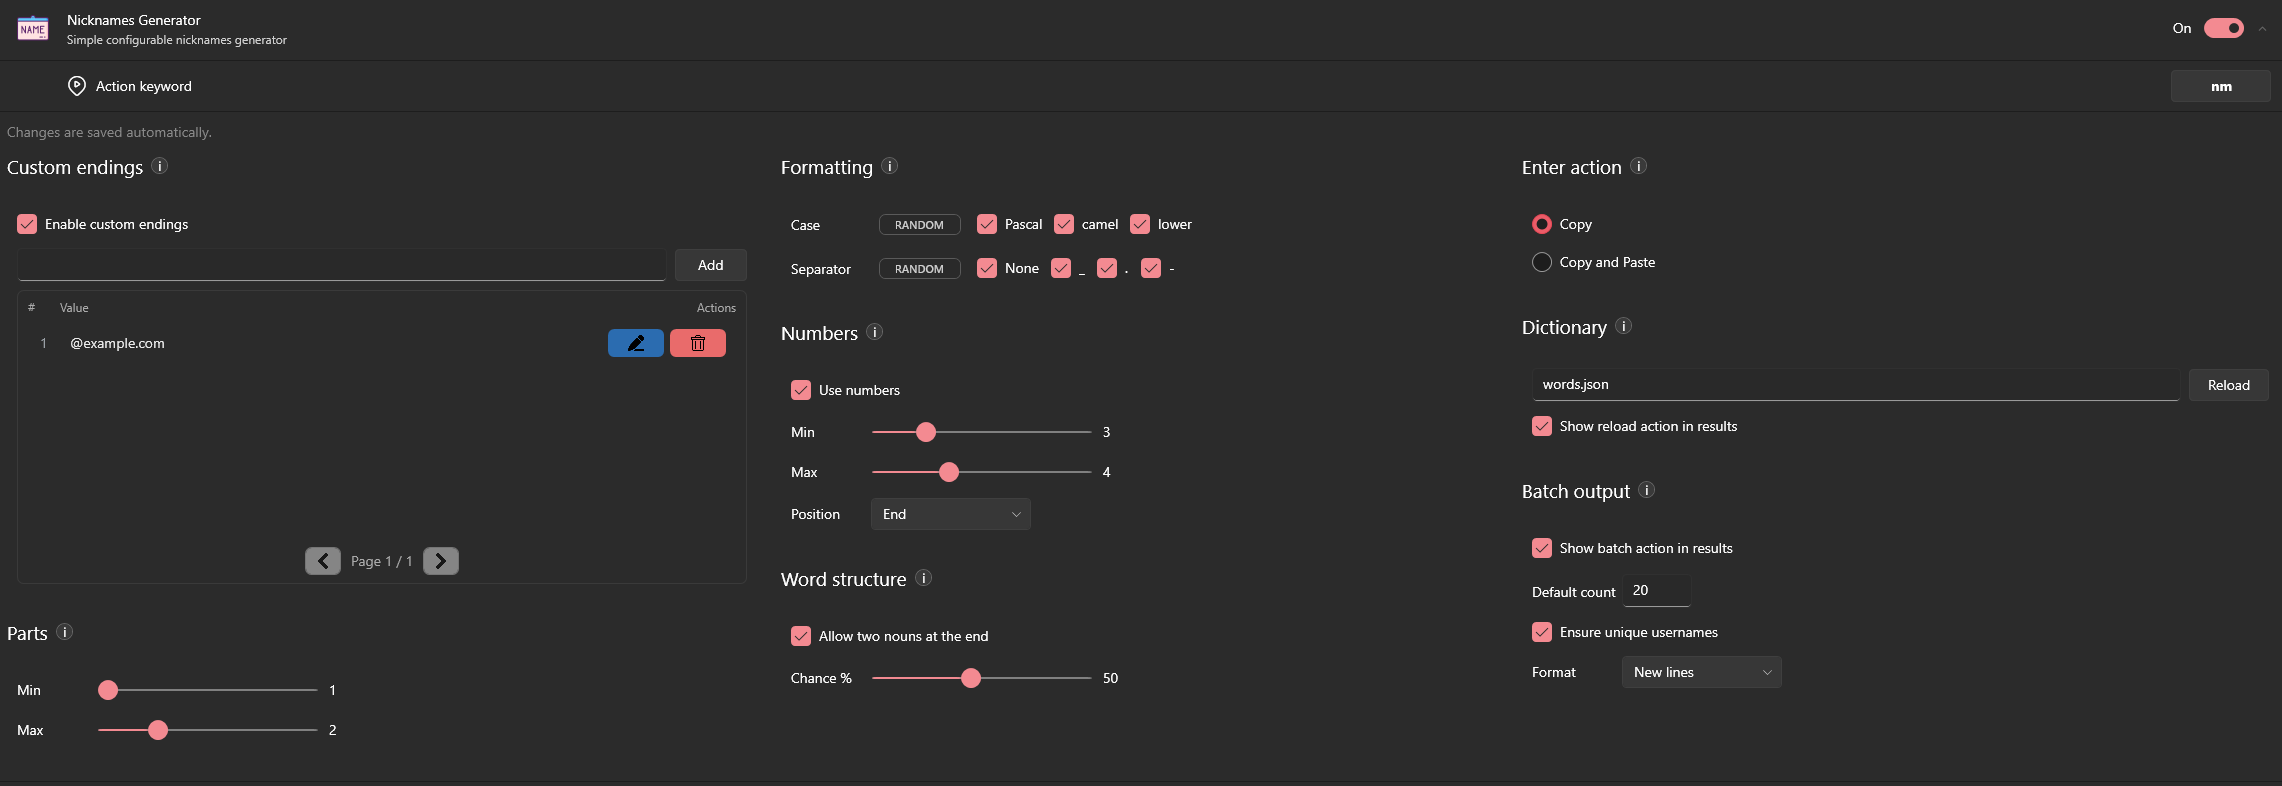
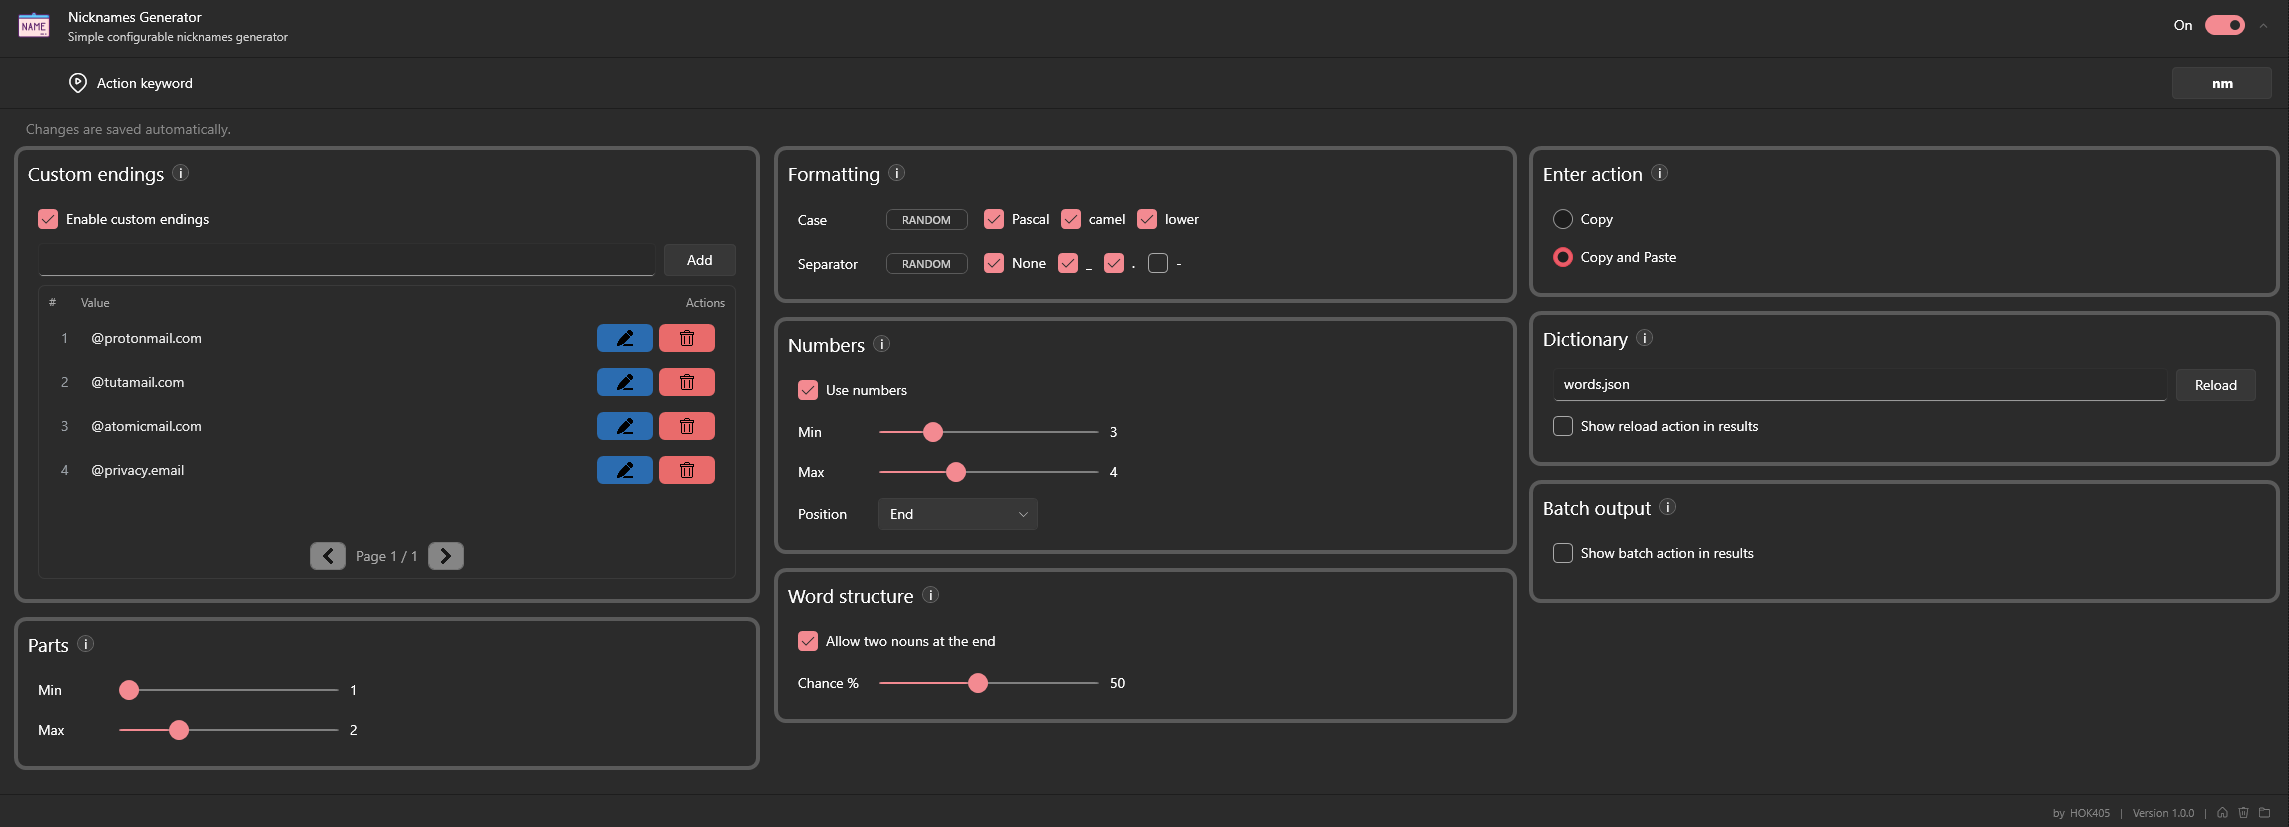
Add context menu for nickname results

diff --git a/src/Flow.Launcher.Plugin.NicknamesGenerator/UI/SettingsView.xaml b/src/Flow.Launcher.Plugin.NicknamesGenerator/UI/SettingsView.xaml
@@ -1,6 +1,7 @@
 <UserControl x:Class="Flow.Launcher.Plugin.UniqueNamesGenerator.SettingsView"
              xmlns="http://schemas.microsoft.com/winfx/2006/xaml/presentation"
              xmlns:x="http://schemas.microsoft.com/winfx/2006/xaml"
+             MinWidth="420"
              PreviewMouseWheel="OnPreviewMouseWheel"
              RequestBringIntoView="OnRequestBringIntoView">
 
@@ -187,6 +188,28 @@
                         ToolTipService.ShowDuration="60000"/>
             </DockPanel>
         </DataTemplate>
+
+        <ControlTemplate x:Key="SectorGroupBoxTemplate" TargetType="GroupBox">
+            <Border CornerRadius="10"
+                    BorderThickness="4"
+                    BorderBrush="#5A5A5A"
+                    Background="Transparent"
+                    Padding="10">
+                <Grid>
+                    <Grid.RowDefinitions>
+                        <RowDefinition Height="Auto"/>
+                        <RowDefinition Height="*"/>
+                    </Grid.RowDefinitions>
+
+                    <ContentPresenter Grid.Row="0"
+                                      ContentSource="Header"
+                                      Margin="0,0,0,8"/>
+
+                    <ContentPresenter Grid.Row="1"
+                                      ContentSource="Content"/>
+                </Grid>
+            </Border>
+        </ControlTemplate>
     </UserControl.Resources>
 
     <Grid Margin="10">
@@ -197,22 +220,23 @@
 
         <TextBlock Grid.Row="0"
                    Text="Changes are saved automatically."
-                   Margin="0,0,0,8"
+                   Margin="18,0,0,8"
                    Foreground="#888"/>
 
-        <Grid x:Name="LayoutGrid" Grid.Row="1">
+        <Grid x:Name="LayoutGrid" Grid.Row="1" ClipToBounds="True">
             <Grid.ColumnDefinitions>
-                <ColumnDefinition x:Name="Col0" Width="*"/>
-                <ColumnDefinition x:Name="Col1" Width="*"/>
-                <ColumnDefinition x:Name="Col2" Width="*"/>
+                <ColumnDefinition x:Name="Col0" Width="1.15*"/>
+                <ColumnDefinition x:Name="Col1" Width="1.15*"/>
+                <ColumnDefinition x:Name="Col2" Width="1.15*"/>
             </Grid.ColumnDefinitions>
 
-            <StackPanel x:Name="ColA" Grid.Column="0" Margin="0,0,8,0" VerticalAlignment="Top" HorizontalAlignment="Stretch">
+            <StackPanel x:Name="ColA" Grid.Column="0" Margin="6,0,6,0" VerticalAlignment="Top" HorizontalAlignment="Stretch" ClipToBounds="True">
 
                 <GroupBox Header="Custom endings"
                          HeaderTemplate="{StaticResource GroupHeaderTemplate}"
+                         Template="{StaticResource SectorGroupBoxTemplate}"
                          Tag="Custom endings are optional suffixes added to the generated username (for example: @gmail.com). You will still have the option to pick the plain username without any ending."
-                         Margin="0,0,0,6"
+                         Margin="0,0,0,14"
                          HorizontalAlignment="Stretch">
                     <StackPanel Margin="10">
                         <CheckBox x:Name="UseEndingsBox" Content="Enable custom endings" Margin="0,0,0,8"/>
@@ -375,8 +399,9 @@
 
                 <GroupBox Header="Parts"
                          HeaderTemplate="{StaticResource GroupHeaderTemplate}"
+                         Template="{StaticResource SectorGroupBoxTemplate}"
                          Tag="Controls how many word parts are used in the username. If Min equals Max, the parts count is fixed."
-                         Margin="0,0,0,0"
+                         Margin="0,0,0,14"
                          HorizontalAlignment="Stretch">
                     <StackPanel Margin="10">
                         <Grid Margin="0,0,0,8">
@@ -427,12 +452,13 @@
 
             </StackPanel>
 
-            <StackPanel x:Name="ColB" Grid.Column="1" Margin="16,0,8,0" VerticalAlignment="Top" HorizontalAlignment="Stretch">
+            <StackPanel x:Name="ColB" Grid.Column="1" Margin="8,0,6,0" VerticalAlignment="Top" HorizontalAlignment="Stretch" ClipToBounds="True">
 
                 <GroupBox Header="Formatting"
                          HeaderTemplate="{StaticResource GroupHeaderTemplate}"
+                         Template="{StaticResource SectorGroupBoxTemplate}"
                          Tag="If you select one option, the mode is FIXED. If you select multiple options, the mode is RANDOM."
-                         Margin="0,0,0,6"
+                         Margin="0,0,0,14"
                          HorizontalAlignment="Stretch">
                     <StackPanel Margin="10">
                         <Grid Margin="0,0,0,12">
@@ -480,8 +506,9 @@
 
                 <GroupBox Header="Numbers"
                          HeaderTemplate="{StaticResource GroupHeaderTemplate}"
+                         Template="{StaticResource SectorGroupBoxTemplate}"
                          Tag="Adds digits to the username. Use Position to place digits at the front, at the end, or both. Min and Max control how many digits are used."
-                         Margin="0,0,0,6"
+                         Margin="0,0,0,14"
                          HorizontalAlignment="Stretch">
                     <StackPanel Margin="10">
                         <CheckBox x:Name="UseNumbersBox" Content="Use numbers" Margin="0,0,0,10"/>
@@ -543,8 +570,9 @@
 
                 <GroupBox Header="Word structure"
                          HeaderTemplate="{StaticResource GroupHeaderTemplate}"
+                         Template="{StaticResource SectorGroupBoxTemplate}"
                          Tag="Controls the probability that the username ends with two nouns."
-                         Margin="0,0,0,6"
+                         Margin="0,0,0,14"
                          HorizontalAlignment="Stretch">
                     <StackPanel Margin="10">
                         <CheckBox x:Name="DoubleNounTailBox" Content="Allow two nouns at the end" Margin="0,0,0,10"/>
@@ -577,13 +605,14 @@
 
             </StackPanel>
 
-            <StackPanel x:Name="ColCPanel" Grid.Column="2" VerticalAlignment="Top" HorizontalAlignment="Stretch">
+            <StackPanel x:Name="ColCPanel" Grid.Column="2" Margin="6,0,0,0" VerticalAlignment="Top" HorizontalAlignment="Stretch" ClipToBounds="True">
 
                 <GroupBox x:Name="EnterActionGroup"
                          Header="Enter action"
                          HeaderTemplate="{StaticResource GroupHeaderTemplate}"
+                         Template="{StaticResource SectorGroupBoxTemplate}"
                          Tag="Choose what happens when you press Enter: Copy will copy the result. Copy and Paste will copy it and then paste using Ctrl+V."
-                         Margin="0,0,0,6"
+                         Margin="0,0,0,14"
                          HorizontalAlignment="Stretch">
                     <StackPanel Margin="10">
                         <RadioButton x:Name="EnterCopyRadio" Content="Copy" GroupName="EnterAction" Margin="0,0,0,6"/>
@@ -594,8 +623,9 @@
                 <GroupBox x:Name="DictionaryGroup"
                          Header="Dictionary"
                          HeaderTemplate="{StaticResource GroupHeaderTemplate}"
+                         Template="{StaticResource SectorGroupBoxTemplate}"
                          Tag="Controls the words source file (words.json by default). Use Reload to re-read the file from the plugin folder."
-                         Margin="0,0,0,6"
+                         Margin="0,0,0,14"
                          HorizontalAlignment="Stretch">
                     <StackPanel Margin="10">
                         <DockPanel Margin="0,0,0,8" LastChildFill="True">
@@ -609,7 +639,9 @@
                 <GroupBox x:Name="BatchGroup"
                          Header="Batch output"
                          HeaderTemplate="{StaticResource GroupHeaderTemplate}"
+                         Template="{StaticResource SectorGroupBoxTemplate}"
                          Tag="Adds an optional action to generate multiple usernames at once. You can set the default count, enforce uniqueness, and choose the output format."
+                         Margin="0,0,0,14"
                          HorizontalAlignment="Stretch">
                     <StackPanel Margin="10">
                         <CheckBox x:Name="ShowBatchActionBox" Content="Show batch action in results" Margin="0,0,0,10"/>

diff --git a/src/Flow.Launcher.Plugin.NicknamesGenerator/Core/NickNameGenerator.cs b/src/Flow.Launcher.Plugin.NicknamesGenerator/Core/NickNameGenerator.cs
@@ -1,5 +1,6 @@
 using Flow.Launcher.Plugin.NicknamesGenerator.Configuration;
 using Flow.Launcher.Plugin.NicknamesGenerator.Configuration.Enums;
+using Flow.Launcher.Plugin.NicknamesGenerator.Data;
 using Flow.Launcher.Plugin.UniqueNamesGenerator.Data;
 using System;
 using System.Collections.Generic;
@@ -15,27 +16,61 @@ public static class NickNameGenerator
 
     public static string Generate(PluginSettings settings, WordsStore words, int? overrideParts)
     {
+        var plan = GeneratePlan(settings, words, overrideParts);
+        return BuildFromPlan(plan);
+    }
+
+    public static GeneratedNamePlan GeneratePlan(PluginSettings settings, WordsStore words, int? overrideParts)
+    {
         var partsCount = GetPartsCount(settings, overrideParts);
         var parts = BuildParts(settings, words, partsCount);
 
         var sep = PickSeparator(settings);
         var caseMode = PickCaseMode(settings);
 
-        var baseName = ApplyFormatting(parts, caseMode, sep);
-
-        if (!settings.UseNumbers)
-            return baseName;
-
-        int digits = PickDigits(settings);
-        var left = GenerateDigits(digits);
-        var right = GenerateDigits(digits);
-
-        return settings.NumberPosition switch
+        var plan = new GeneratedNamePlan
         {
-            NumberPosition.Prefix => left + baseName,
-            NumberPosition.Suffix => baseName + right,
-            _ => left + baseName + right
+            Parts = parts,
+            Separator = sep,
+            CaseMode = caseMode,
+            UseNumbers = settings.UseNumbers,
+            NumberPosition = settings.NumberPosition
         };
+
+        if (settings.UseNumbers)
+        {
+            int digits = PickDigits(settings);
+            plan.DigitsLen = digits;
+            plan.LeftDigits = GenerateDigits(digits);
+            plan.RightDigits = GenerateDigits(digits);
+        }
+
+        return plan;
+    }
+
+    public static string BuildFromPlan(GeneratedNamePlan plan, string? separatorOverride = null, string? ending = null)
+    {
+        var sep = separatorOverride ?? plan.Separator ?? "";
+        var baseName = ApplyFormatting(plan.Parts, plan.CaseMode, sep);
+
+        string final = baseName;
+
+        if (plan.UseNumbers)
+        {
+            var left = plan.LeftDigits ?? "";
+            var right = plan.RightDigits ?? "";
+            final = plan.NumberPosition switch
+            {
+                NumberPosition.Prefix => left + baseName,
+                NumberPosition.Suffix => baseName + right,
+                _ => left + baseName + right
+            };
+        }
+
+        if (!string.IsNullOrEmpty(ending))
+            final += ending;
+
+        return final;
     }
 
     public static List<string> GenerateBatch(PluginSettings settings, WordsStore words, int count, int? overrideParts)
@@ -162,14 +197,10 @@ public static class NickNameGenerator
         if (cleaned.Count == 0) return "";
 
         if (mode == CaseMode.LowerCase)
-        {
             return string.Join(sep, cleaned.Select(x => x.ToLowerInvariant()));
-        }
 
         if (mode == CaseMode.PascalCase)
-        {
             return string.Join(sep, cleaned.Select(ToTitle));
-        }
 
         var first = cleaned[0].ToLowerInvariant();
         var rest = cleaned.Skip(1).Select(ToTitle);

diff --git a/src/Flow.Launcher.Plugin.NicknamesGenerator/UI/SettingsView.xaml.cs b/src/Flow.Launcher.Plugin.NicknamesGenerator/UI/SettingsView.xaml.cs
@@ -717,9 +717,26 @@ public partial class SettingsView : UserControl
     {
         while (d != null)
         {
-            if (d is T t) return t;
-            d = VisualTreeHelper.GetParent(d);
+            if (d is T target)
+                return target;
+
+            d = GetParentObject(d);
         }
+
         return null;
+    }
+
+    private static DependencyObject? GetParentObject(DependencyObject d)
+    {
+        if (d is Visual || d is System.Windows.Media.Media3D.Visual3D)
+            return VisualTreeHelper.GetParent(d);
+
+        if (d is FrameworkContentElement fce)
+            return fce.Parent;
+
+        if (d is ContentElement ce)
+            return ContentOperations.GetParent(ce);
+
+        return LogicalTreeHelper.GetParent(d);
     }
 }

diff --git a/src/Flow.Launcher.Plugin.NicknamesGenerator/Data/GeneratedNamePlan.cs b/src/Flow.Launcher.Plugin.NicknamesGenerator/Data/GeneratedNamePlan.cs
@@ -1,0 +1,17 @@
+using Flow.Launcher.Plugin.NicknamesGenerator.Configuration.Enums;
+using System.Collections.Generic;
+
+namespace Flow.Launcher.Plugin.NicknamesGenerator.Data;
+
+public sealed class GeneratedNamePlan
+{
+    public List<string> Parts { get; set; } = new();
+    public CaseMode CaseMode { get; set; }
+    public string Separator { get; set; } = "";
+
+    public bool UseNumbers { get; set; }
+    public int DigitsLen { get; set; }
+    public string LeftDigits { get; set; } = "";
+    public string RightDigits { get; set; } = "";
+    public NumberPosition NumberPosition { get; set; }
+}

diff --git a/src/Flow.Launcher.Plugin.NicknamesGenerator/Configuration/PluginSettings.cs b/src/Flow.Launcher.Plugin.NicknamesGenerator/Configuration/PluginSettings.cs
@@ -27,7 +27,7 @@ public class PluginSettings
     public bool RandomSepNone { get; set; } = true;
     public bool RandomSepUnderscore { get; set; } = true;
     public bool RandomSepDot { get; set; } = true;
-    public bool RandomSepDash { get; set; } = true;
+    public bool RandomSepDash { get; set; } = false;
 
     public bool UseNumbers { get; set; } = true;
     public int NumberDigitsMin { get; set; } = 3;

diff --git a/src/Flow.Launcher.Plugin.NicknamesGenerator/Data/SeparatorContextData.cs b/src/Flow.Launcher.Plugin.NicknamesGenerator/Data/SeparatorContextData.cs
@@ -1,0 +1,7 @@
+namespace Flow.Launcher.Plugin.NicknamesGenerator.Data;
+
+public sealed class SeparatorContextData
+{
+    public GeneratedNamePlan Plan { get; set; } = new();
+    public string Ending { get; set; } = "";
+}

diff --git a/Readme.md b/Readme.md
@@ -18,6 +18,10 @@ Generate catchy, configurable nicknames / usernames right from Flow Launcher —
 
 ![Settings overview](assets/settings-overview.png)
 
+**Context Menu Example**
+
+![Context menu](assets/context-menu-example.png)
+
 ---
 
 ## Features
@@ -49,6 +53,10 @@ Generate catchy, configurable nicknames / usernames right from Flow Launcher —
 - **Reload dictionary**
   - Reloads the configured words file from the plugin folder
   - Optional “show reload action in results”
+- **Context Menu** (New Feature)
+  - After generating a nickname, use the **Right Arrow** key to open the **context menu** and view additional variations of the generated nickname.
+  - The menu includes all possible separators (`None`, `_`, `.`, `-`), even if they were not selected during the initial random generation.
+  - This allows you to quickly switch between different separator options without needing to regenerate the nickname.
 
 ---
 
@@ -58,6 +66,7 @@ Generate catchy, configurable nicknames / usernames right from Flow Launcher —
 2. Run the plugin using its **Action Keyword** (set in Flow Launcher plugin settings).
 3. Pick a generated nickname from the results:
    - Press **Enter** to copy (or copy+paste, depending on your settings).
+   - Use **Right Arrow** to open the **context menu** and view alternative separator variations for your selected nickname.
 
 > Tip: Enable **Batch output** to generate multiple nicknames in one go.
 
@@ -117,6 +126,13 @@ Adds an optional action for generating multiple nicknames at once:
 - Output format: New lines / Comma + space
 
 ![Batch output](assets/settings-batch.png)
+
+### Context Menu
+- After selecting a generated nickname, you can press **Right Arrow** to open the **context menu**.
+- The context menu will display alternative variations of the generated nickname with different separators (e.g., `_`, `.`, `-`).
+- This allows you to easily select from different styles of separators without regenerating the nickname.
+
+![Context menu](assets/context-menu-example.png)
 
 ---
 
